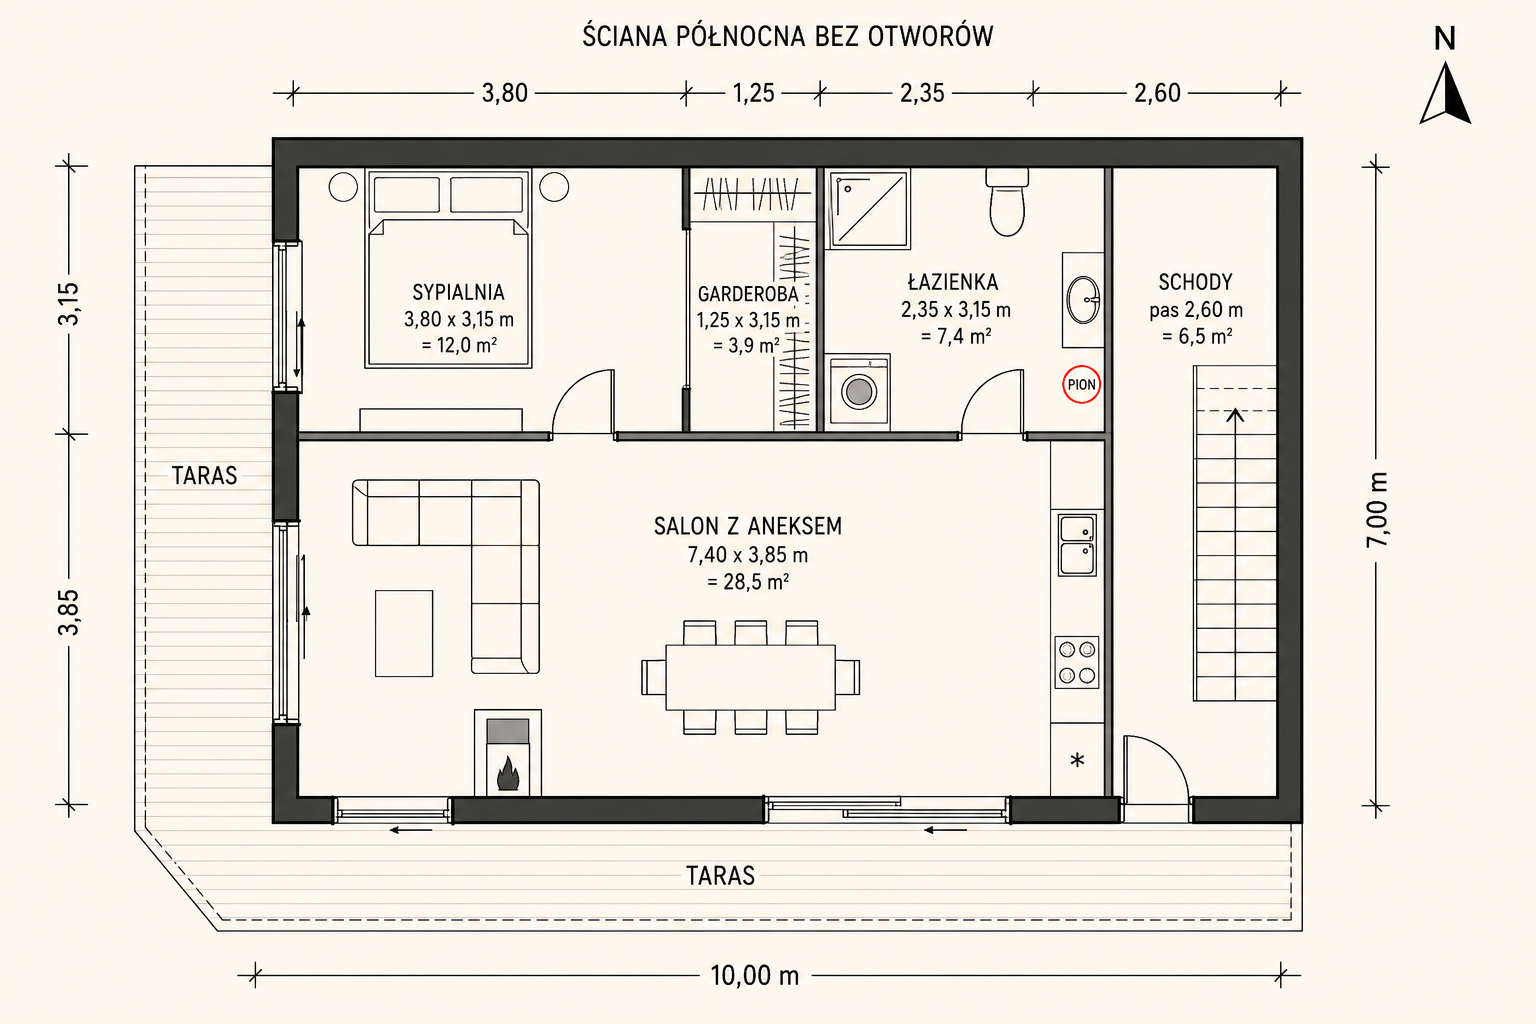
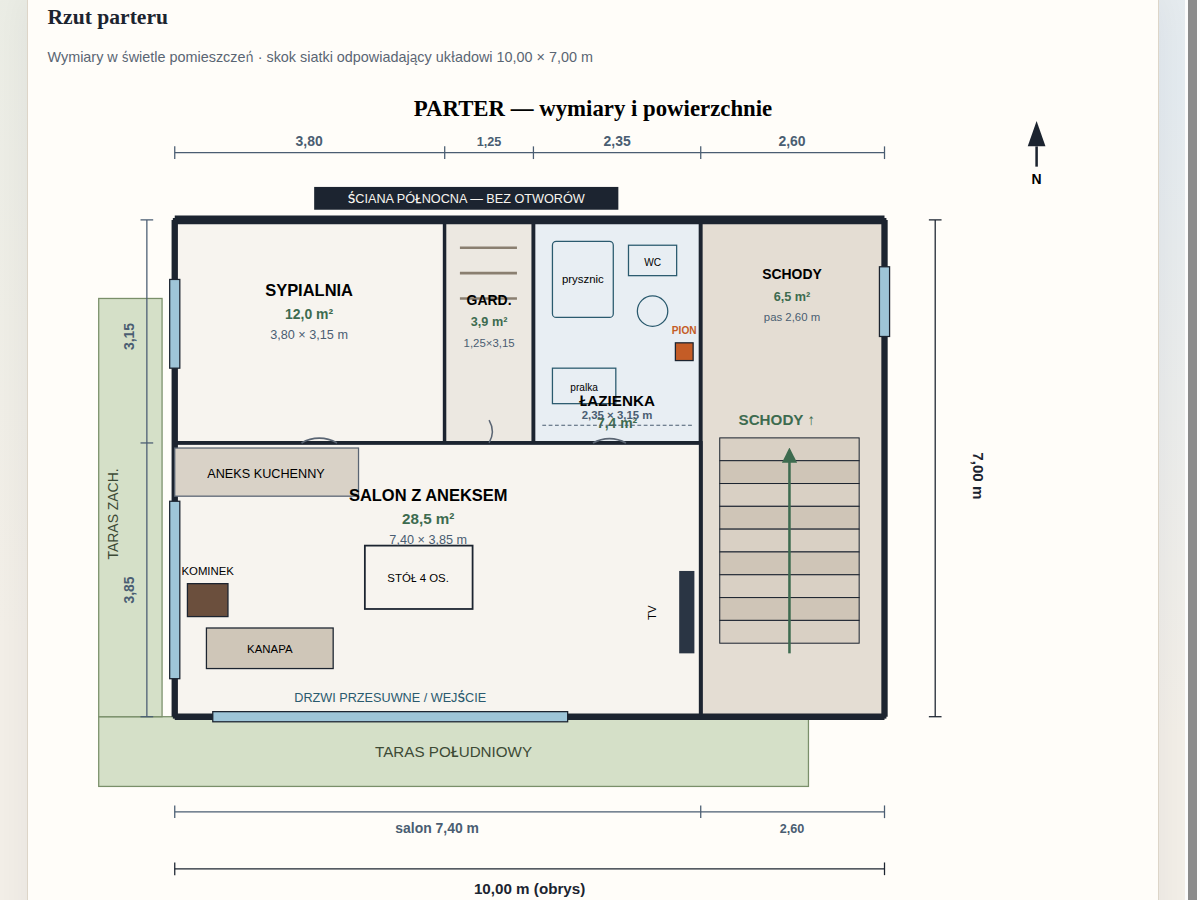
Przywróć schody jak w pierwszej wersji

diff --git a/rzuty-domku/index.html b/rzuty-domku/index.html
@@ -256,17 +256,17 @@
 
           <!-- Schody -->
           <g>
-            <rect x="530" y="290" width="110" height="16" fill="#d9d0c4" stroke="#1c2430" stroke-width="0.7"/>
-            <rect x="530" y="306" width="110" height="16" fill="#cfc5b7" stroke="#1c2430" stroke-width="0.7"/>
-            <rect x="530" y="322" width="110" height="16" fill="#d9d0c4" stroke="#1c2430" stroke-width="0.7"/>
-            <rect x="530" y="338" width="110" height="16" fill="#cfc5b7" stroke="#1c2430" stroke-width="0.7"/>
-            <rect x="530" y="354" width="110" height="16" fill="#d9d0c4" stroke="#1c2430" stroke-width="0.7"/>
-            <rect x="530" y="370" width="110" height="16" fill="#cfc5b7" stroke="#1c2430" stroke-width="0.7"/>
-            <rect x="530" y="386" width="110" height="16" fill="#d9d0c4" stroke="#1c2430" stroke-width="0.7"/>
-            <rect x="530" y="402" width="110" height="16" fill="#cfc5b7" stroke="#1c2430" stroke-width="0.7"/>
-            <rect x="530" y="418" width="110" height="16" fill="#d9d0c4" stroke="#1c2430" stroke-width="0.7"/>
-            <line x1="585" y1="445" x2="585" y2="295" stroke="#3d6b4f" stroke-width="2" marker-end="url(#arrow)"/>
-            <text x="585" y="275" text-anchor="middle" font-size="11" font-weight="600" fill="#3d6b4f">SCHODY ↑</text>
+            <rect x="530" y="280" width="110" height="18" fill="#d9d0c4" stroke="#1c2430" stroke-width="0.8"/>
+            <rect x="530" y="298" width="110" height="18" fill="#cfc5b7" stroke="#1c2430" stroke-width="0.8"/>
+            <rect x="530" y="316" width="110" height="18" fill="#d9d0c4" stroke="#1c2430" stroke-width="0.8"/>
+            <rect x="530" y="334" width="110" height="18" fill="#cfc5b7" stroke="#1c2430" stroke-width="0.8"/>
+            <rect x="530" y="352" width="110" height="18" fill="#d9d0c4" stroke="#1c2430" stroke-width="0.8"/>
+            <rect x="530" y="370" width="110" height="18" fill="#cfc5b7" stroke="#1c2430" stroke-width="0.8"/>
+            <rect x="530" y="388" width="110" height="18" fill="#d9d0c4" stroke="#1c2430" stroke-width="0.8"/>
+            <rect x="530" y="406" width="110" height="18" fill="#cfc5b7" stroke="#1c2430" stroke-width="0.8"/>
+            <rect x="530" y="424" width="110" height="18" fill="#d9d0c4" stroke="#1c2430" stroke-width="0.8"/>
+            <line x1="585" y1="450" x2="585" y2="290" stroke="#3d6b4f" stroke-width="2" marker-end="url(#arrow)"/>
+            <text x="575" y="270" text-anchor="middle" font-size="12" font-weight="600" fill="#3d6b4f">SCHODY ↑</text>
           </g>
 
           <!-- Etykiety pomieszczeń + powierzchnie -->
@@ -464,15 +464,16 @@
 
           <!-- Schody -->
           <g>
-            <rect x="530" y="290" width="110" height="15" fill="#d9d0c4" stroke="#1c2430" stroke-width="0.7"/>
-            <rect x="530" y="305" width="110" height="15" fill="#cfc5b7" stroke="#1c2430" stroke-width="0.7"/>
-            <rect x="530" y="320" width="110" height="15" fill="#d9d0c4" stroke="#1c2430" stroke-width="0.7"/>
-            <rect x="530" y="335" width="110" height="15" fill="#cfc5b7" stroke="#1c2430" stroke-width="0.7"/>
-            <rect x="530" y="350" width="110" height="15" fill="#d9d0c4" stroke="#1c2430" stroke-width="0.7"/>
-            <rect x="530" y="365" width="110" height="15" fill="#cfc5b7" stroke="#1c2430" stroke-width="0.7"/>
-            <rect x="530" y="380" width="110" height="15" fill="#d9d0c4" stroke="#1c2430" stroke-width="0.7"/>
-            <line x1="585" y1="405" x2="585" y2="295" stroke="#3d6b4f" stroke-width="2" marker-end="url(#arrow2)"/>
-            <text x="585" y="255" text-anchor="middle" font-size="11" font-weight="600" fill="#3d6b4f">SCHODY ↑</text>
+            <rect x="530" y="280" width="110" height="16" fill="#d9d0c4" stroke="#1c2430" stroke-width="0.7"/>
+            <rect x="530" y="296" width="110" height="16" fill="#cfc5b7" stroke="#1c2430" stroke-width="0.7"/>
+            <rect x="530" y="312" width="110" height="16" fill="#d9d0c4" stroke="#1c2430" stroke-width="0.7"/>
+            <rect x="530" y="328" width="110" height="16" fill="#cfc5b7" stroke="#1c2430" stroke-width="0.7"/>
+            <rect x="530" y="344" width="110" height="16" fill="#d9d0c4" stroke="#1c2430" stroke-width="0.7"/>
+            <rect x="530" y="360" width="110" height="16" fill="#cfc5b7" stroke="#1c2430" stroke-width="0.7"/>
+            <rect x="530" y="376" width="110" height="16" fill="#d9d0c4" stroke="#1c2430" stroke-width="0.7"/>
+            <line x1="585" y1="400" x2="585" y2="285" stroke="#3d6b4f" stroke-width="2" marker-end="url(#arrow2)"/>
+            <text x="585" y="250" text-anchor="middle" font-size="11" font-weight="600" fill="#3d6b4f">SCHODY ↑</text>
+            <text x="585" y="420" text-anchor="middle" font-size="10" fill="#5a6573">z parteru</text>
           </g>
 
           <!-- Łazienka -->
